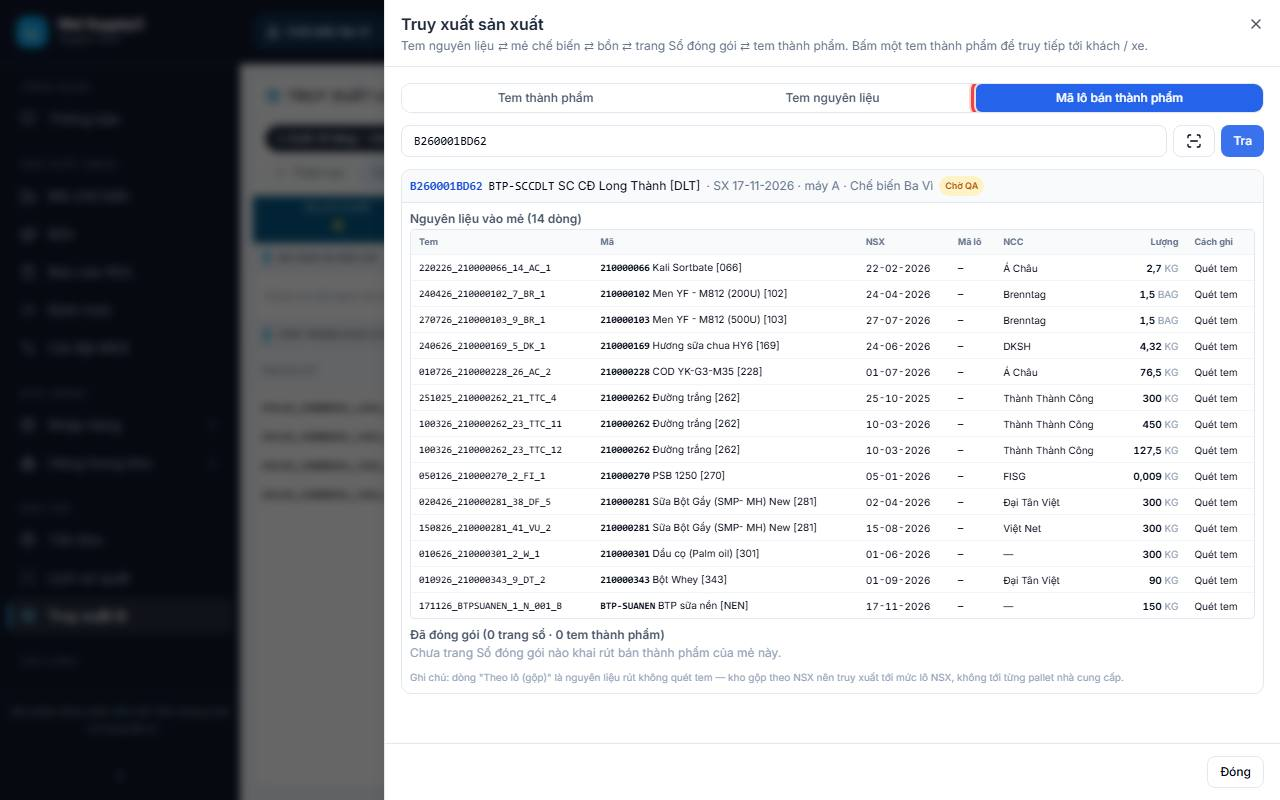
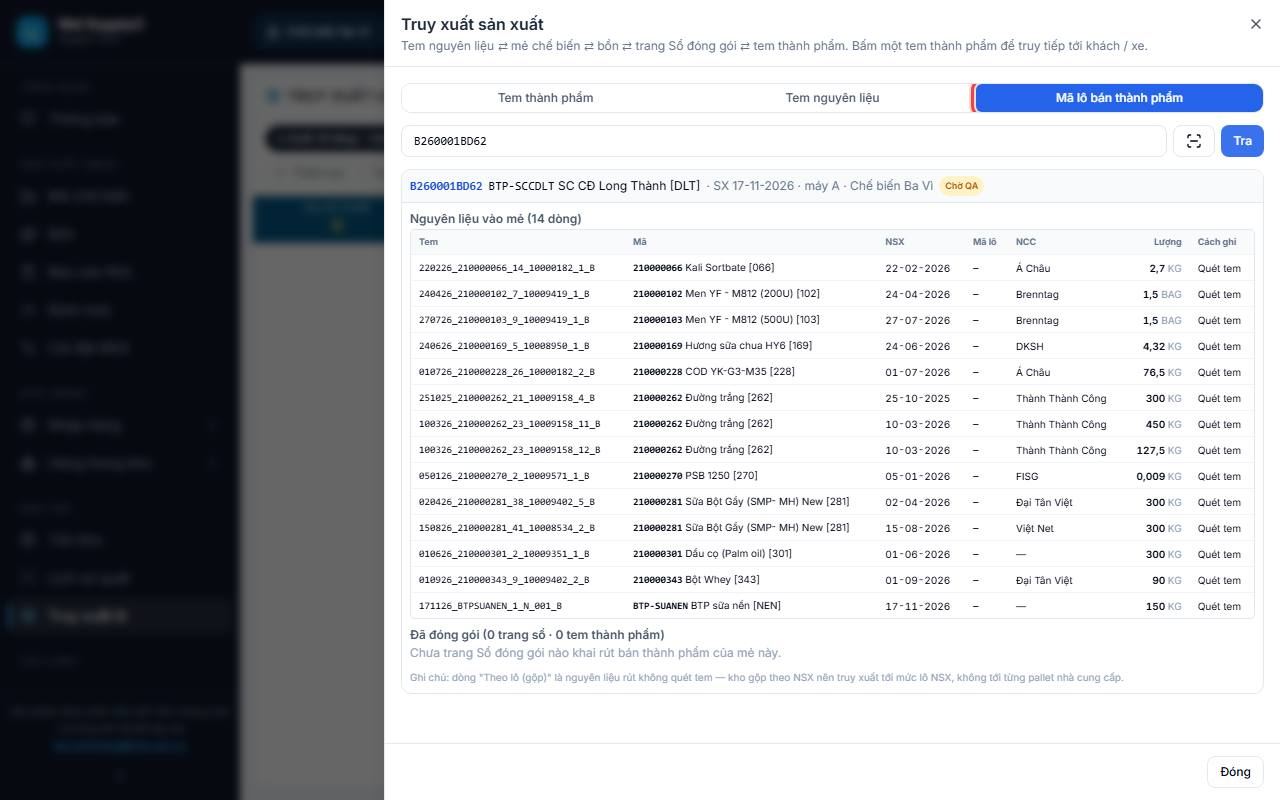
docs(help): chụp lại ảnh có mã tem cũ (tem CBBV đã đổi chuẩn 6 đoạn) + ảnh "Tem đã in ra giấy chưa?" và "Đã lưu" file mẫu
Kiểm kê 06–08 · In tem 09–10 (+11 mới) · Truy xuất 03–04 · Mã hàng 17b mới. Chụp trên Preview bản e3e8b9b3 bằng tài khoản
chức danh Phó phòng QA; lượt kiểm / lần in mẫu đã dọn, tồn Chế biến Ba Vì trả về như cũ.

diff --git a/frontend/src/help/guides/inTem.ts b/frontend/src/help/guides/inTem.ts
@@ -62,7 +62,7 @@ export const IN_TEM_GUIDE: Guide = {
             'Bấm **In (4)** ở góc phải trên. Hộp in của trình duyệt mở ra: chọn khổ **A4**, lề **Không (None)**, tỷ lệ **100%**.',
             'Dán mỗi tem lên đúng pallet có số pallet đó.',
           ],
-          images: [d('05-xem-truoc', 'Xem trước 4 tem, nút In (4)')],
+          images: [d('05-xem-truoc', 'Xem trước 4 tem, nút In (4)'), d('11-da-in-chua', 'Hộp in đóng: Tem đã in ra giấy chưa? — Đã in / Chưa in')],
           note: 'Bấm In là app ghi Lịch sử in. Hộp in đóng lại, app hỏi "Tem đã in ra giấy chưa?" — đã bấm Huỷ hoặc máy in không ra tem thì chọn "Chưa in" để lần này không tính vào lịch sử.',
         },
         {
@@ -83,7 +83,7 @@ export const IN_TEM_GUIDE: Guide = {
             'Pallet đã từng in hiện nhãn "đã in N" — in lại là có hai tem cùng mã, nhớ bỏ tem cũ.',
             'Bấm **In lại (N)**.',
           ],
-          images: [d('09-in-lai', 'In lại tem pallet 100326_210000262_23_TTC_12')],
+          images: [d('09-in-lai', 'In lại tem một pallet Đường trắng')],
         },
         {
           title: 'Lịch sử in',

diff --git a/frontend/src/help/guides/maHang.ts b/frontend/src/help/guides/maHang.ts
@@ -153,7 +153,7 @@ export const MA_HANG_GUIDE: Guide = {
             '- Mã **chưa có** ⇒ thêm mới: phải đủ ô như form — Tên hàng, Loại hàng, Base Unit, Thùng/Pallet, và HSD / Pallet/EA nếu loại hàng bắt.',
             '- Mã **đã có** ⇒ chỉ cập nhật ô có giá trị; ô để trống giữ nguyên.',
           ],
-          images: [d('16-nut-upload', 'Nút Upload Excel'), d('17-upload', 'Hộp Upload Mã hàng từ Excel, nút Tải mẫu')],
+          images: [d('16-nut-upload', 'Nút Upload Excel'), d('17-upload', 'Hộp Upload Mã hàng từ Excel, nút Tải mẫu'), d('17b-da-luu', 'Lưu file mẫu xong: app báo Đã lưu mau_ma_hang.xlsx')],
         },
         {
           title: 'Chọn file — app kiểm trước, chưa ghi gì',

diff --git a/frontend/src/help/guides/truyXuat.ts b/frontend/src/help/guides/truyXuat.ts
@@ -49,7 +49,7 @@ export const TRUY_XUAT_GUIDE: Guide = {
             'Mỗi mẻ đã dùng tem này hiện một thẻ: mã lô mẻ (bấm để mở mẻ), BTP, ngày SX, QA của mẻ; bảng **Nguyên liệu vào mẻ** (dòng tô vàng = tem đang tra) và **Đã đóng gói** (các tem thành phẩm đi ra từ mẻ).',
             'Phải nhập **đúng mã tem** (không phải số lô của NCC).',
           ],
-          images: [d('03-nvl-vao-me', 'Tem 010626_210000301_2_W_1 đã vào mẻ B260001BD62')],
+          images: [d('03-nvl-vao-me', 'Tem dầu cọ đã vào mẻ B260001BD62')],
         },
         {
           title: 'Từ mã lô mẻ / tem thành phẩm',

diff --git a/docs/modules/help.md b/docs/modules/help.md
@@ -38,9 +38,9 @@
 
 | Bài | Module | Ảnh | Ghi chú |
 |---|---|---|---|
-| `ma-hang` — Mã hàng: tìm, thêm, sửa, nạp Excel | `materials` | `public/guide/ma-hang/` (18 ảnh) | mã mẫu 210000416 đã xoá |
+| `ma-hang` — Mã hàng: tìm, thêm, sửa, nạp Excel | `materials` | `public/guide/ma-hang/` (19 ảnh) | mã mẫu 210000416 đã xoá |
 | `nhap-kho` — Nhập kho: nhận hàng vào kho chế biến | `inbound` | `public/guide/nhap-kho/` (16 ảnh) | phiếu TF mẫu CBBV_N_191126_01 đã xoá; kho chế biến chỉ nhận qua chuyển kho |
-| `in-tem` — In tem pallet nguyên liệu, bao bì | `pallet_print` | `public/guide/in-tem/` (10 ảnh) | 4 tem mẫu + lịch sử in đã xoá |
+| `in-tem` — In tem pallet nguyên liệu, bao bì | `pallet_print` | `public/guide/in-tem/` (11 ảnh) | 4 tem mẫu + lịch sử in đã xoá |
 | `ton-kho` — Tồn kho | `inventory` | `public/guide/ton-kho/` (21 ảnh) | |
 | `don-tach` — Dồn / Tách pallet | `pallet_ops` | `public/guide/don-tach/` (7 ảnh) | |
 | `kiem-ke` — Kiểm kê | `stocktake` | `public/guide/kiem-ke/` (14 ảnh) | |
